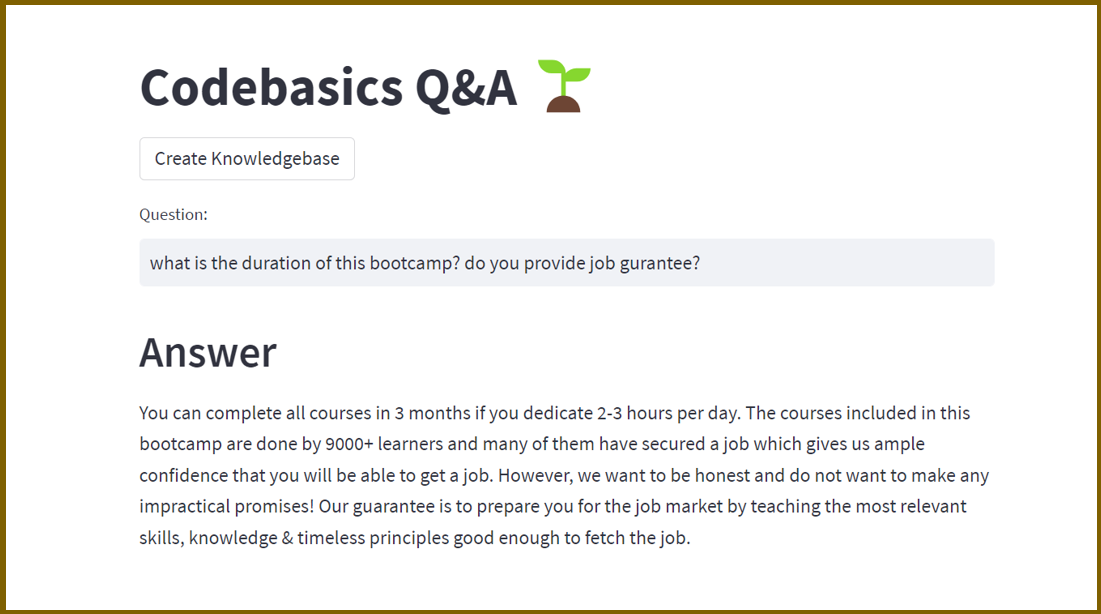
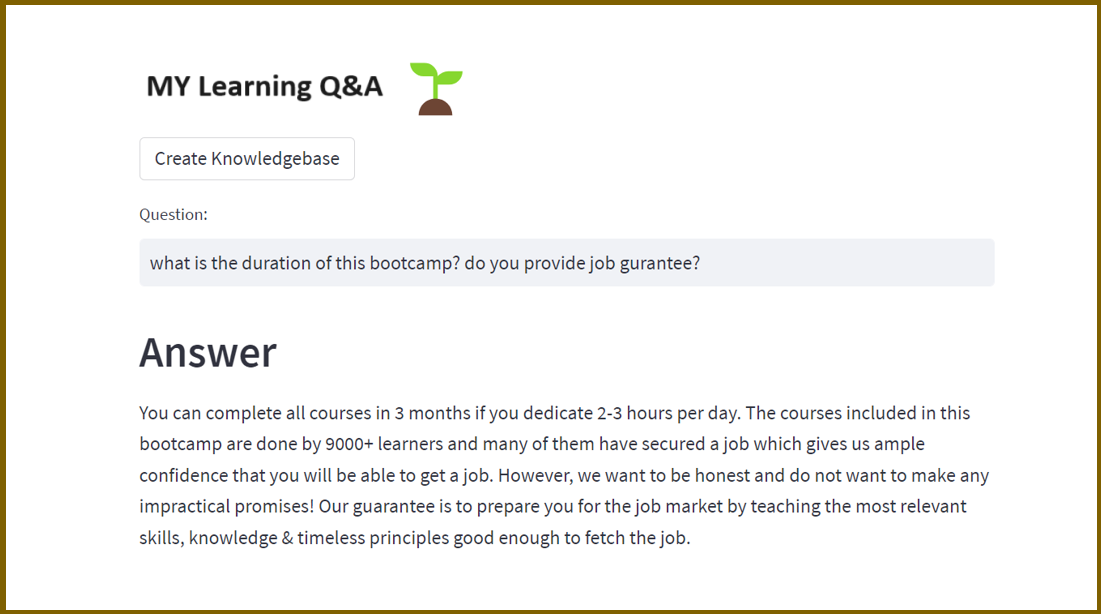
update some code

Changed region(s): [[0.1235, 0.0928, 0.4632, 0.1857], [0.4941, 0.0928, 0.5559, 0.1857]]

diff --git a/3_project_codebasics_q_and_a/README.md b/3_project_codebasics_q_and_a/README.md
@@ -1,7 +1,7 @@
 
-# Codebasics Q&A: Question and Answer System Based on Google Palm LLM and Langchain for E-learning company  
+# My Learning Q&A: Question and Answer System Based on Google Palm LLM and Langchain for E-learning company  
 
-This is an end to end LLM project based on Google Palm and Langchain. We are building a Q&A system for an e-learning company called codebasics (website: codebasics.io). Codebasics sells data related courses and bootcamps. They have thousands of learners who uses discord server or email to ask questions. This system will provide a streamlit based user interface for students where they can ask questions and get answers. 
+This is an end to end LLM project based on Google Palm and Langchain. We are building a Q&A system for an e-learning company called mylearning. Mylearning sells data related courses and bootcamps. They have thousands of learners who uses discord server or email to ask questions. This system will provide a streamlit based user interface for students where they can ask questions and get answers. 
 
 ![](codebasics_q_and_a.png)
 
@@ -23,7 +23,7 @@ This is an end to end LLM project based on Google Palm and Langchain. We are bui
 1.Clone this repository to your local machine using:
 
 ```bash
-  git clone https://github.com/codebasics/langchain.git
+  git clone https://github.com/SankarPatnaik/langchain.git
 ```
 2.Navigate to the project directory:
 
